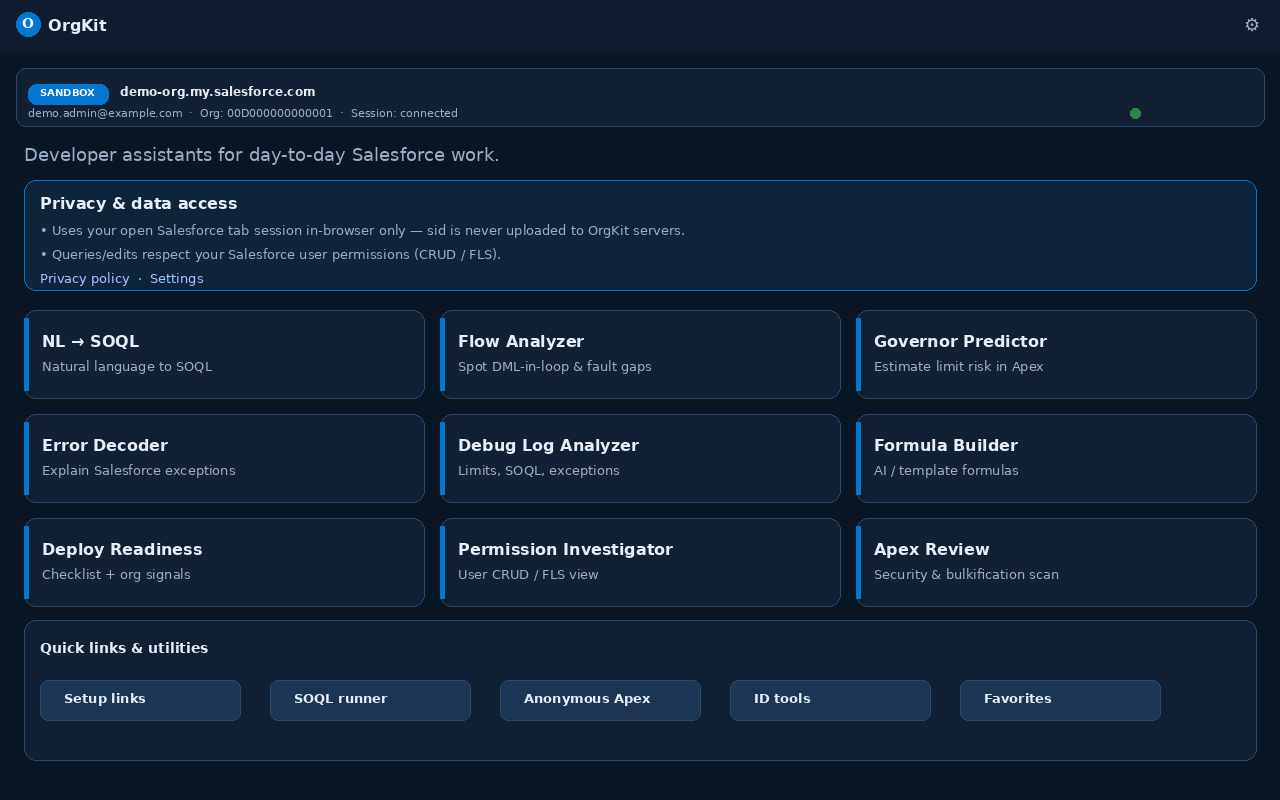
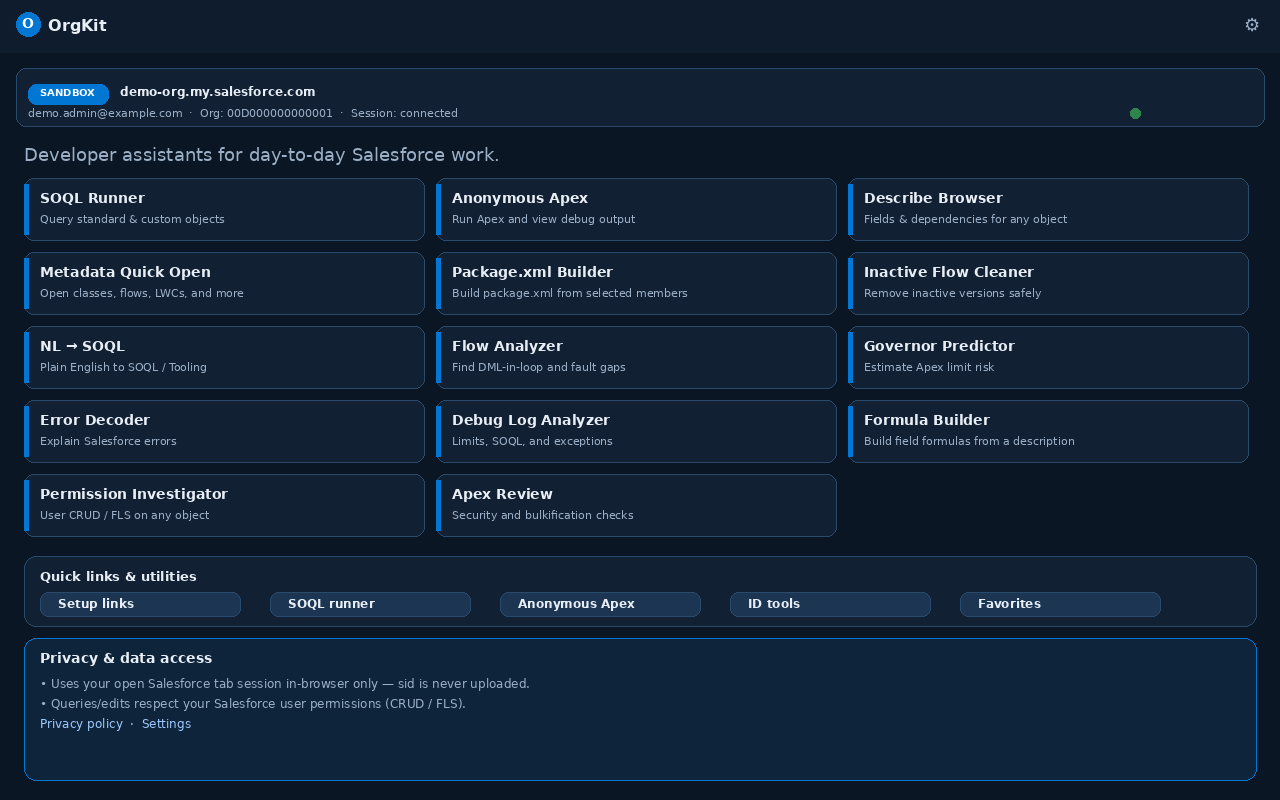
Prepare OrgKit 1.6.9 Chrome Web Store submission pack.
Refresh listing copy, justifications, checklist, home screenshot, and validation for the lean-permission custom-object-ready build.

diff --git a/extension/store/submission/SUBMIT_CHECKLIST.md b/extension/store/submission/SUBMIT_CHECKLIST.md
@@ -1,11 +1,11 @@
-# OrgKit — Chrome Web Store submit checklist (v1.6.7)
+# OrgKit — Chrome Web Store submit checklist (v1.6.9)
 
-Use this pack end-to-end. Everything you need is under `extension/store/submission/` and mirrored in Files as `OrgKit-CWS-1.6.7/`.
+Use this pack end-to-end. Everything you need is under `extension/store/submission/` and mirrored in Files as `OrgKit-CWS-1.6.9/`.
 
 ## 1. Upload package (required)
 
-- [ ] Upload **`OrgKit-1.6.7-store.zip`** (manifest at zip root)
-- [ ] Confirm version in Dashboard matches **1.6.7**
+- [ ] Upload **`OrgKit-1.6.9-store.zip`** (manifest at zip root)
+- [ ] Confirm version in Dashboard matches **1.6.9**
 - [ ] Confirm permissions are only **cookies** + **storage** (+ Salesforce hosts; OpenAI optional)
 - [ ] Do **not** upload workspace junk, `.cursor/`, or API keys
 
@@ -46,13 +46,15 @@ Use this pack end-to-end. Everything you need is under `extension/store/submissi
 
 ## 6. Pre-flight test (do this before clicking Submit)
 
-- [ ] Fresh Chrome profile → Load/`sid` via real Salesforce login on a sandbox/DE
+- [ ] Fresh Chrome profile → real Salesforce login on a sandbox/DE
 - [ ] Open OrgKit → Session: connected
-- [ ] Run SOQL on Account LIMIT 5
-- [ ] NL→SOQL Tooling: “get all flows” → FlowDefinition (no DeveloperName-on-Flow error)
+- [ ] Run SOQL on a custom object (`Something__c`) LIMIT 5
+- [ ] Describe Browser → search custom object by label or API name
+- [ ] NL→SOQL Tooling: “get all flows” → FlowDefinition
 - [ ] Hide edge tab → **Show** restores it
 - [ ] Settings → Privacy Policy opens
 - [ ] Delete/Save paths still ask for confirmation
+- [ ] Confirm Deploy Readiness is not present in the UI
 
 ## 7. Publisher account
 

diff --git a/extension/store/submission/README.md b/extension/store/submission/README.md
@@ -1,10 +1,10 @@
-# OrgKit Chrome Web Store submission pack (v1.6.7)
+# OrgKit Chrome Web Store submission pack (v1.6.9)
 
 This folder is everything you need to submit OrgKit.
 
 | Item | File |
 |---|---|
-| Upload zip | `../../OrgKit-1.6.7-store.zip` (also in Files: `OrgKit-1.6.7-store.zip`) |
+| Upload zip | `OrgKit-1.6.9-store.zip` (in this pack / agent Files) |
 | Checklist | `SUBMIT_CHECKLIST.md` |
 | Listing copy | `LISTING_COPY.txt` |
 | Permission justifications | `PERMISSION_JUSTIFICATIONS.txt` |
@@ -15,11 +15,13 @@ This folder is everything you need to submit OrgKit.
 | Screenshots 640×400 | `screenshots/*-640x400.png` |
 | Promo tiles | `promo/` |
 | Icons | `icons/icon-128.png` |
+| Validation | `VALIDATION.txt` |
 
 ## Important
 
 1. **Host `privacy.html` on public HTTPS** before submit (GitHub Pages recommended).
 2. Screenshots here are **sanitized demo UI** (no real email/org IDs).
 3. Upload only the **store zip** of the extension root — not this whole repo.
+4. Required permissions are lean: **cookies** + **storage** only (Inspector-aligned).
 
 See `SUBMIT_CHECKLIST.md` for the click-by-click flow.

diff --git a/extension/store/CHROME_WEB_STORE.md b/extension/store/CHROME_WEB_STORE.md
@@ -3,15 +3,24 @@
 **Full submission pack (copy, screenshots, promo, checklist):**  
 [`extension/store/submission/`](./submission/)
 
-**Upload package:** build with:
+**Upload package:**
 
 ```bash
-cd extension && zip -r ../OrgKit-1.6.7-store.zip . -x '*.DS_Store' -x 'store/submission/*'
+cd extension && zip -r ../OrgKit-1.6.9-store.zip . \
+  -x '*.DS_Store' -x 'store/submission/screenshots/*' -x 'store/submission/promo/*'
 ```
 
-Or use the prebuilt `OrgKit-1.6.7-store.zip` in agent Files / repo artifacts.
+Or use the prebuilt `OrgKit-1.6.9-store.zip` in agent Files / `OrgKit-CWS-1.6.9/`.
 
 Privacy policy source: [`../privacy.html`](../privacy.html)  
 Packaged hostable copy: [`submission/privacy.html`](./submission/privacy.html)
 
 Start with [`submission/SUBMIT_CHECKLIST.md`](./submission/SUBMIT_CHECKLIST.md).
+
+## Current submission snapshot (1.6.9)
+
+- MV3; required permissions: `cookies`, `storage`
+- Salesforce host permissions only; OpenAI optional
+- No `tabs` / `activeTab` / `scripting`
+- Custom objects searchable in Describe / SOQL / Permissions
+- Deploy Readiness feature removed

diff --git a/extension/store/submission/GIT_AND_FILES.md b/extension/store/submission/GIT_AND_FILES.md
@@ -2,5 +2,6 @@
 
 - Branch: `cursor/salesforce-dev-chrome-extension-f713` (pushed)
 - Pack in repo: `extension/store/submission/`
-- Upload zip (build locally or from agent Files): `OrgKit-1.6.6-store.zip`
-- Full pack zip in agent Files: `OrgKit-CWS-1.6.6.zip`
+- Upload zip: `OrgKit-1.6.9-store.zip`
+- Full pack zip in agent Files: `OrgKit-CWS-1.6.9.zip`
+- Runtime test zip: `OrgKit-1.6.9.zip` / `OrgKit-latest.zip`
